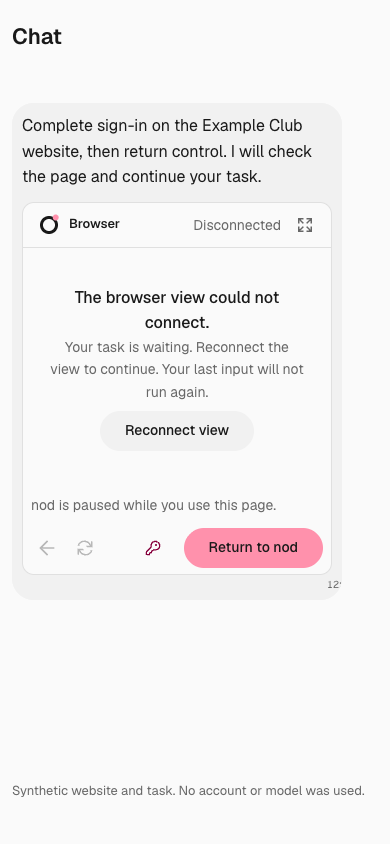
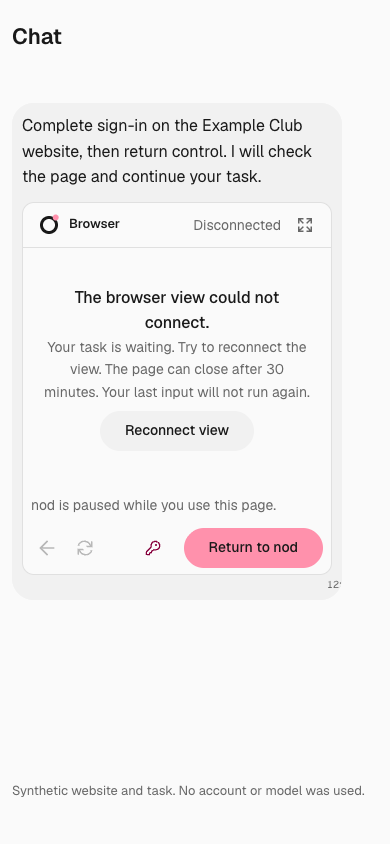
fix(browser): keep handoff errors clear and bound control requests

Changed region(s): [[0.1231, 0.4005, 0.8, 0.4929]]

diff --git a/tests/browser.test.ts b/tests/browser.test.ts
@@ -3392,7 +3392,7 @@ test('automatic feedback captures exclude remote handoffs and unsent editable co
   assert.equal(result.exitCode, 0, result.stderr);
 });
 
-test('browser handoff retains pointer input while the next frame is loading', async () => {
+test('browser handoff retains pending-frame input and allows handback after an input timeout', async () => {
   const result = await runProcess(process.execPath, ['--import', 'tsx', '--input-type=module'], {
     timeoutMs: 20_000,
     input: `
@@ -3403,9 +3403,16 @@ test('browser handoff retains pointer input while the next frame is loading', as
       Object.defineProperty(globalThis, 'navigator', { configurable: true, value: dom.window.navigator });
       const writes = [];
       let frames;
+      let stallInput = false;
+      const timeout = AbortSignal.timeout;
+      const expiry = new AbortController();
       globalThis.fetch = async (path, options = {}) => {
         if (path.startsWith('/api/browser-handoff/stream')) return new Response(new ReadableStream({ start(controller) { frames = controller; } }));
         writes.push([path, JSON.parse(options.body)]);
+        if (stallInput && path === '/api/browser-handoff') return new Promise((resolve, reject) => {
+          assert.ok(options.signal);
+          options.signal.addEventListener('abort', () => reject(options.signal.reason), { once: true });
+        });
         return Response.json({ ok: true });
       };
       const { act, createElement } = await import('react');
@@ -3434,7 +3441,21 @@ test('browser handoff retains pointer input while the next frame is loading', as
           ['/api/browser-handoff', { turnId: 'synthetic-turn', inputs: [{ type: 'mouse', event: 'down', x: 0.5, y: 0.5, button: 'left' }] }],
           ['/api/browser-handoff', { turnId: 'synthetic-turn', inputs: [{ type: 'mouse', event: 'up', x: 0.5, y: 0.5, button: 'left' }] }],
         ]);
+        stallInput = true;
+        AbortSignal.timeout = () => expiry.signal;
+        await act(async () => document.querySelector('.browser-handoff-screen').dispatchEvent(new dom.window.KeyboardEvent('keydown', { bubbles: true, key: 'Enter' })));
+        const handback = document.querySelector('.browser-handoff-actions:last-child button');
+        await act(async () => handback.click());
+        assert.equal(handback.disabled, true);
+        assert.equal(writes.some(([path]) => path.endsWith('/done')), false);
+        await act(async () => expiry.abort(new DOMException('Synthetic timeout', 'TimeoutError')));
+        assert.equal(handback.disabled, false);
+        assert.ok(document.querySelector('[role="alert"]'));
+        AbortSignal.timeout = timeout;
+        await act(async () => handback.click());
+        assert.deepEqual(writes.slice(2).map(([path]) => path), ['/api/browser-handoff', '/api/browser-handoff/done']);
       } finally {
+        AbortSignal.timeout = timeout;
         await act(async () => root.unmount());
         dom.window.close();
       }

diff --git a/tests/agent-guard.test.ts b/tests/agent-guard.test.ts
@@ -27,6 +27,7 @@ import {
 import { untrustedBlock } from '../src/shared/untrusted.ts';
 import { fakeComputer, fakeWorkspace } from './runtime-fixtures.ts';
 import type { Computer } from '../src/ports/computer.ts';
+import { BrowserActionError } from '../src/ports/computer.ts';
 
 async function fixture(
   run: (
@@ -861,6 +862,7 @@ test('secure credential pause prevents subsequent tools in the same execution se
 test('browser handoff requires a live page, binds its session and stops further work without a link', async () => {
   const sessionId = randomUUID();
   let opened = false;
+  let pageError: Error | undefined;
   let holdFails = true;
   const held: string[] = [];
   const result = await fixture(
@@ -871,9 +873,20 @@ test('browser handoff requires a live page, binds its session and stops further 
       );
       await assert.rejects(
         call(tools, 'browser', { action: 'handoff', text: 'Complete this page.' }),
-        /Open the page/,
+        /Open the login page/,
       );
       await call(tools, 'browser', { action: 'open', url: 'https://example.com/login' });
+      for (const error of [
+        new BrowserActionError('browser_navigation_failed'),
+        new Error('Synthetic private entry is active.'),
+      ]) {
+        pageError = error;
+        await assert.rejects(
+          call(tools, 'browser', { action: 'handoff', text: 'Complete sign-in.' }),
+          { message: error.message },
+        );
+      }
+      pageError = undefined;
       await assert.rejects(
         call(tools, 'browser', { action: 'handoff', text: 'Complete sign-in.' }),
         /hold unavailable/,
@@ -900,7 +913,8 @@ test('browser handoff requires a live page, binds its session and stops further 
         },
         currentPage: async (id) => {
           assert.equal(id, sessionId);
-          if (!opened) throw new Error('No page');
+          if (!opened) throw new Error('Open the login page in this task browser first.');
+          if (pageError) throw pageError;
           return { origin: 'https://example.com', url: 'https://example.com/login' };
         },
         hold: async (id, value) => {

diff --git a/src/web/components/browser-handoff.tsx b/src/web/components/browser-handoff.tsx
@@ -2,7 +2,7 @@ import { useEffect, useRef, useState } from 'react';
 import { createPortal } from 'react-dom';
 import { ArrowLeft, KeyRound, Maximize2, Minimize2, RotateCw } from './icons';
 import type { BrowserHandoffInput } from '../../shared/browser-handoff';
-import { ApiError, apiStream, errorMessage, post } from '../lib/api';
+import { ApiError, api, apiStream, errorMessage } from '../lib/api';
 import { browserFrames } from '../lib/browser-frames';
 import { captureAnalytics } from '../lib/analytics';
 import { BrandMark } from './brand';
@@ -27,6 +27,22 @@ const buttons = ['left', 'middle', 'right'] as const;
 const batchBytes = 64 * 1024;
 const textPiece = 2000;
 const encoder = new TextEncoder();
+
+async function post(path: string, body: unknown) {
+  try {
+    return await api(path, {
+      method: 'POST',
+      body: JSON.stringify(body),
+      signal: AbortSignal.timeout(75_000),
+    });
+  } catch (error) {
+    if (error instanceof DOMException && error.name === 'TimeoutError')
+      throw new Error(
+        'The browser did not confirm this request. Check the page before trying again.',
+      );
+    throw error;
+  }
+}
 
 export function BrowserHandoff({ turnId, paused = false }: { turnId: string; paused?: boolean }) {
   const screen = useRef<HTMLDivElement>(null);
@@ -423,8 +439,8 @@ export function BrowserHandoff({ turnId, paused = false }: { turnId: string; pau
           <div className="browser-handoff-recovery">
             <strong>The browser view could not connect.</strong>
             <p>
-              Your task is waiting. Reconnect the view to continue. Your last input will not run
-              again.
+              Your task is waiting. Try to reconnect the view. The page can close after 30 minutes.
+              Your last input will not run again.
             </p>
             <Button
               variant="outline"

diff --git a/src/runtime/tools.ts b/src/runtime/tools.ts
@@ -734,9 +734,7 @@ export function nodTools(turn: Turn, skills?: SkillLibrary): NodTool[] {
           );
         const text = rest.text?.trim();
         if (!text) throw new Error('Say what the user needs to do on the current page.');
-        await computer.currentPage(browserId).catch(() => {
-          throw new Error('Open the page in your browser before handing it to the user.');
-        });
+        await computer.currentPage(browserId);
         signal.throwIfAborted();
         await pause('browser', text);
         return 'The browser is in chat. Wait for the user to return control.';

diff --git a/docs/review/browser-handoff/README.md b/docs/review/browser-handoff/README.md
@@ -12,11 +12,12 @@ These captures use the actual message and browser components. The website, task,
 | Phone width                               | [Narrow](live-narrow.png)            |
 | Disconnected view                         | [Reconnect](disconnected-narrow.png) |
 | Input failure                             | [Failure](input-failure.png)         |
+| Input timeout                             | [Timeout](input-timeout.png)         |
 
 The baseline source is `05d0ce92`. Both versions use the same task and message. The after captures use the source in this PR.
 
-The Chrome check covers loading, live control, an enlarged view, return control, disconnection, and input failure. It checks both themes and a 390-pixel viewport. No page errors or horizontal overflow occurred. A failed input ran once. Return control waited for pending input and sent one handback request.
+The Chrome check covers loading, live control, an enlarged view, return control, disconnection, input failure, and input timeout. It checks both themes and a 390-pixel viewport. No page errors or horizontal overflow occurred. A failed input ran once. Return control waited for pending input and sent one handback request. After an input timeout, the button became available again and the user could return control without repeating the input.
 
 [Capture results](checks.json) record the viewports and checks. These captures do not prove a live website sign-in or an installed desktop app flow.
 
-The runtime tests cover the explicit action, a missing page, a failed browser hold, session binding, and refusal for subagents. Channel tests use the real Telegram and WhatsApp adapters with network fixtures. The thread test checks that handback keeps the session and original channel and runs once.
+The runtime tests cover the explicit action, a missing page, page error details, a failed browser hold, session binding, and refusal for subagents. The browser test checks that an input timeout does not block handback or repeat input. Channel tests use the real Telegram and WhatsApp adapters with network fixtures. The thread test checks that handback keeps the session and original channel and runs once.
